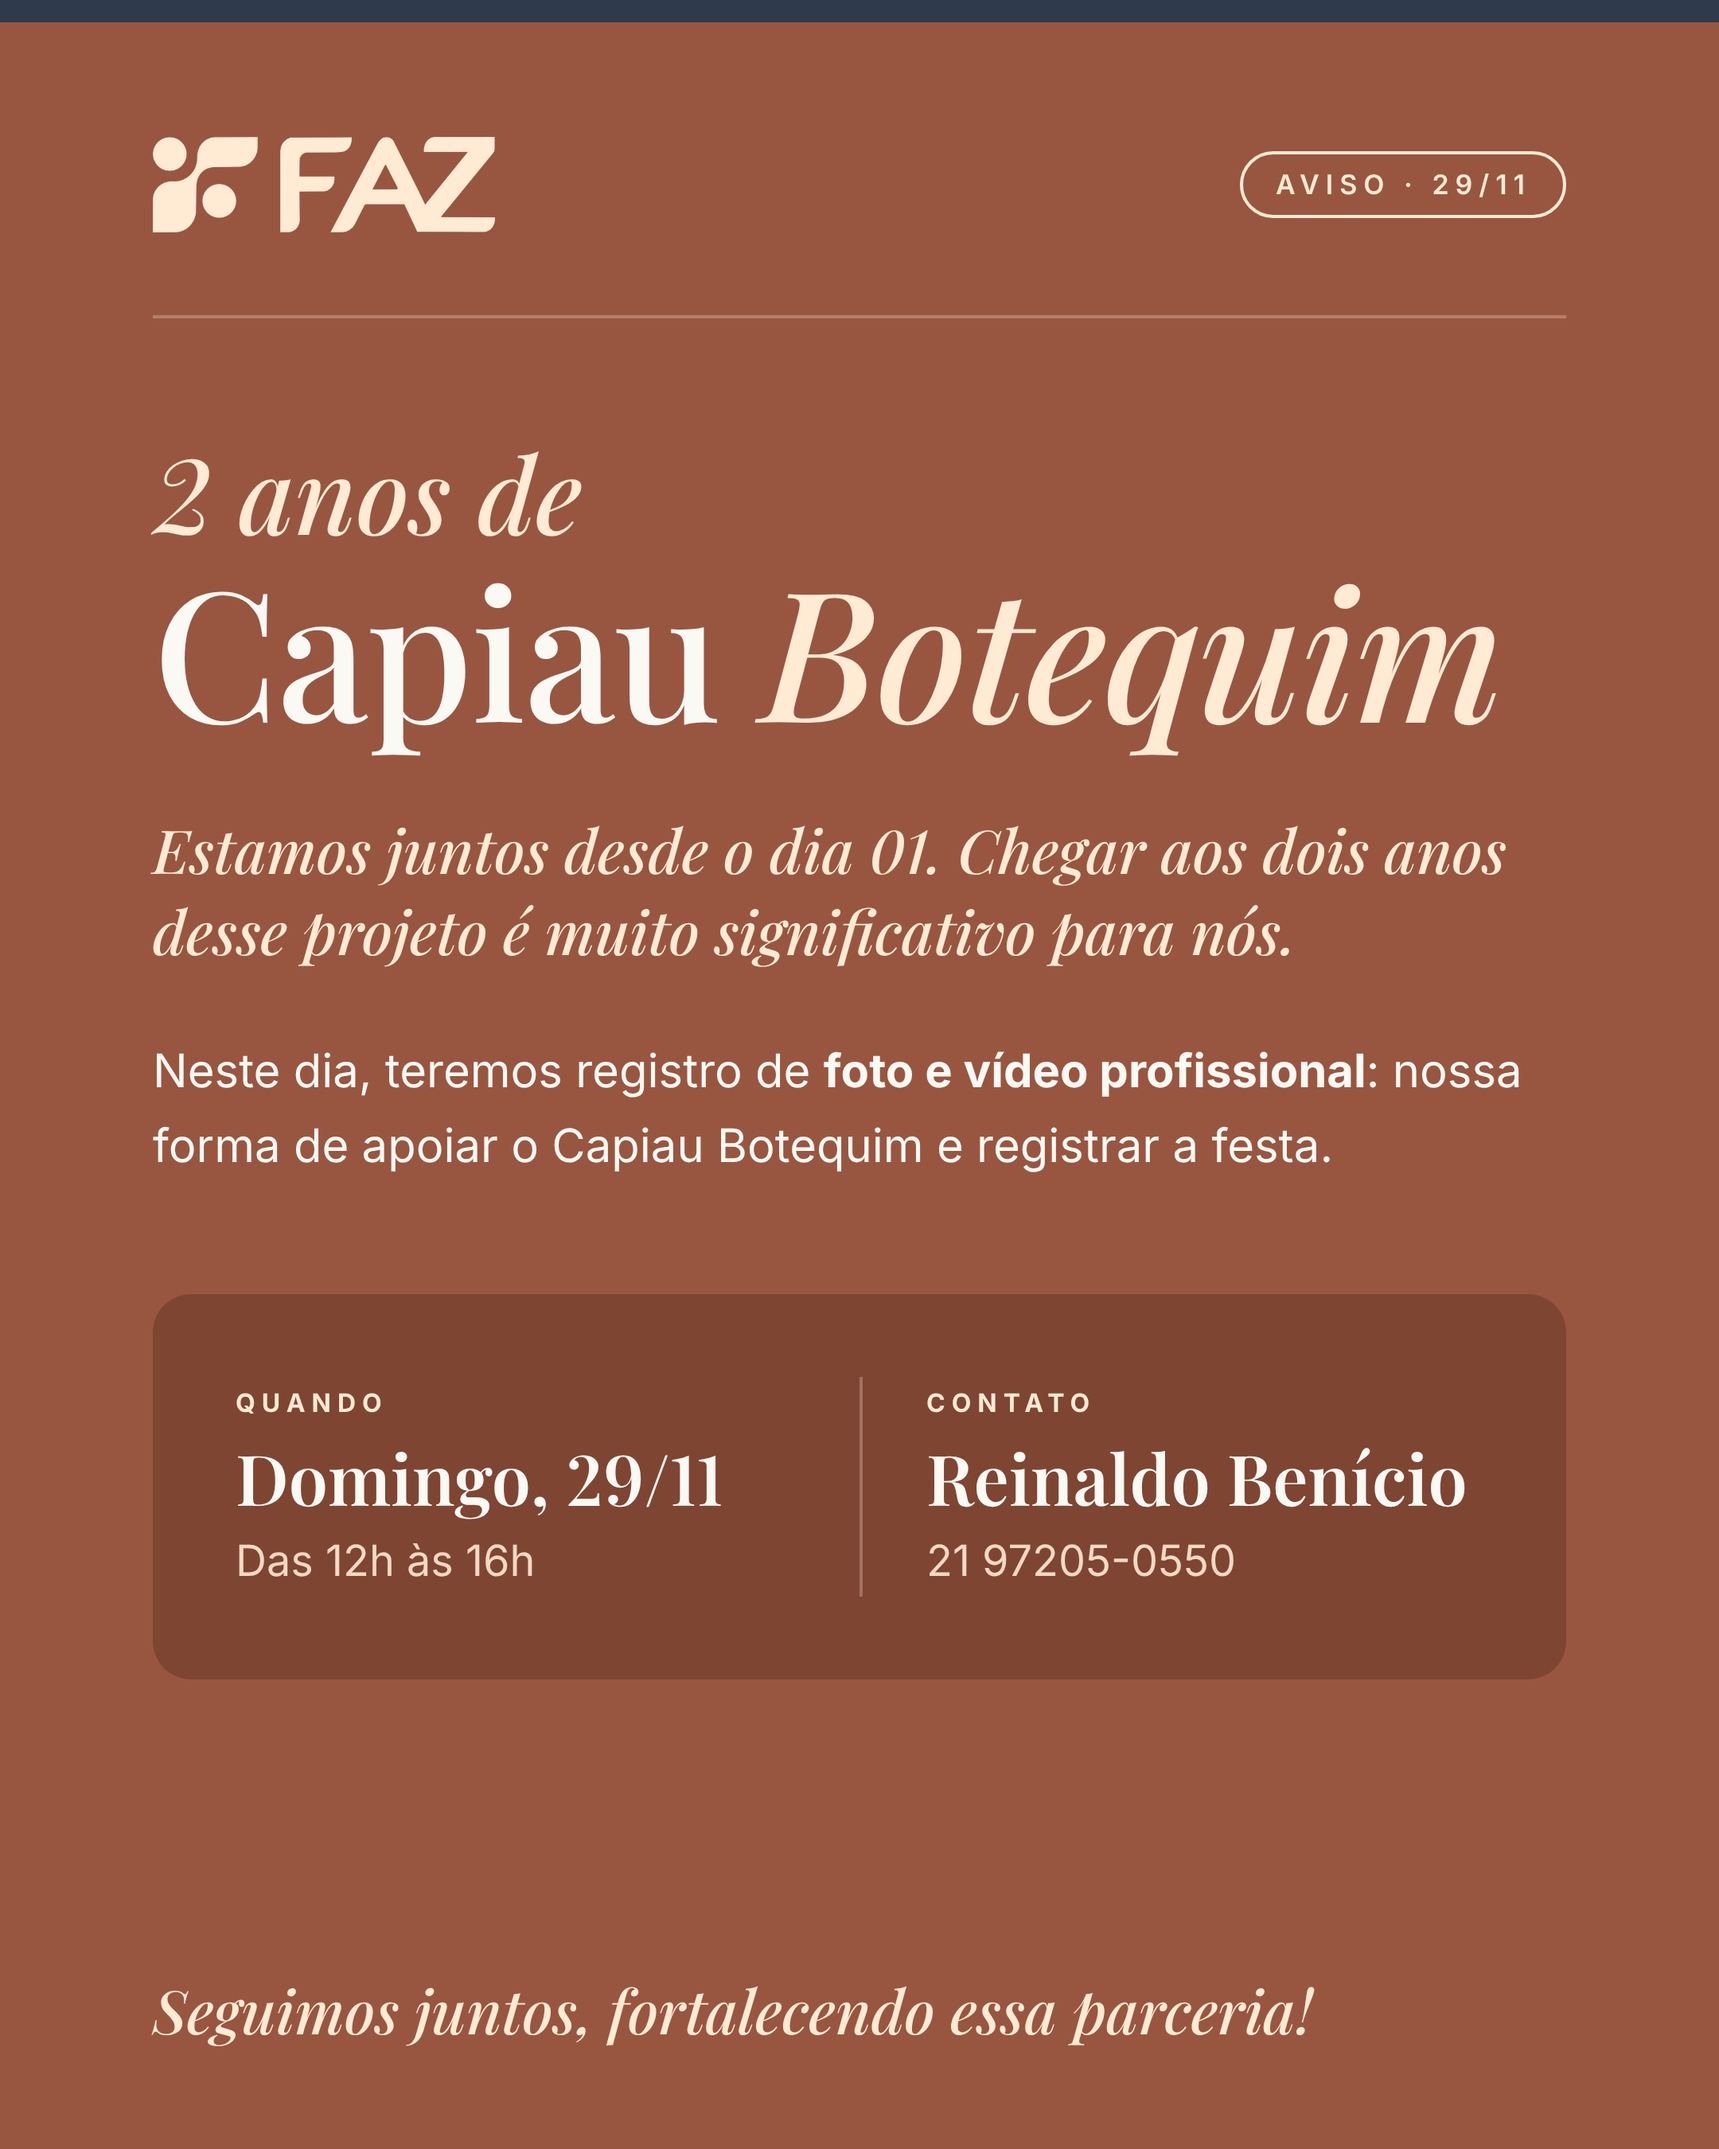
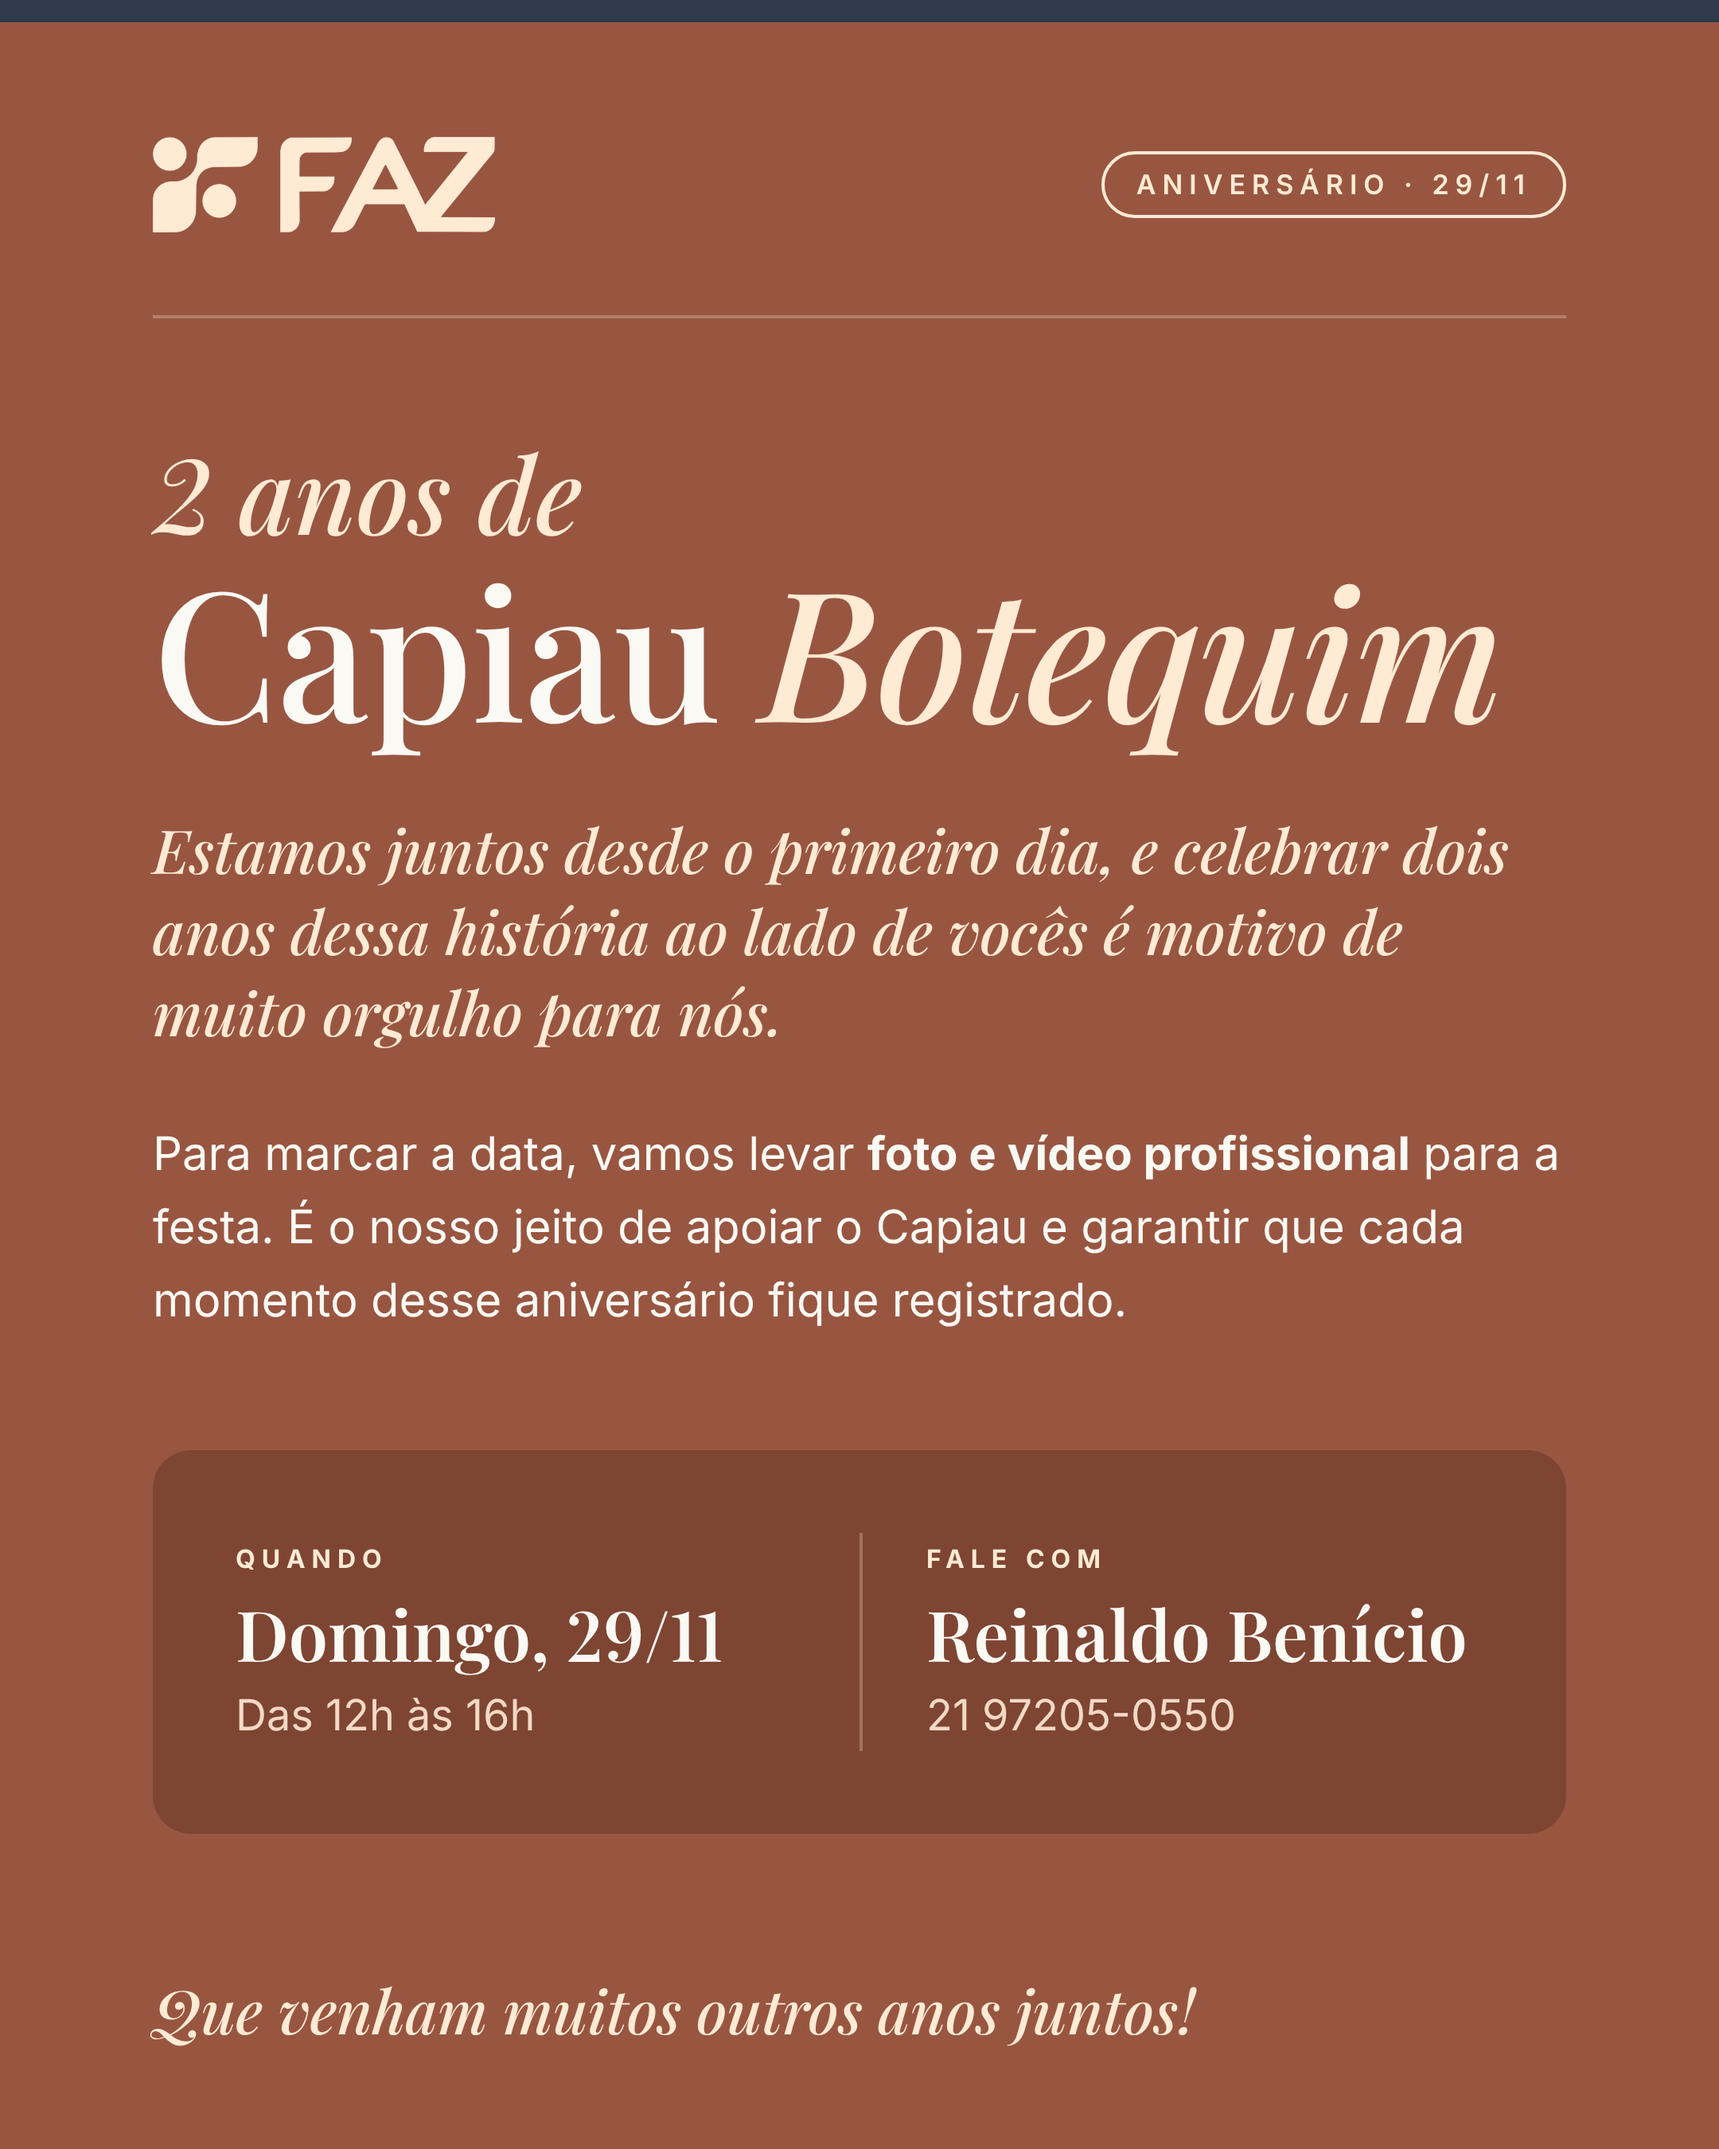
Aviso 2 anos do Capiau: reescreve o texto
Claude-Session: https://claude.ai/code/session_01NrFLg8teARWCnCwNSxCVA9

Changed region(s): [[0.062, 0.3733, 0.9306, 0.8711], [0.0931, 0.9333, 0.7444, 0.9644], [0.6514, 0.0622, 0.7755, 0.0933]]

diff --git a/avisos/aviso-capiau-2anos-29nov.html b/avisos/aviso-capiau-2anos-29nov.html
@@ -40,18 +40,18 @@ h1.big{font-size:114px;line-height:.98}
 </style></head><body>
 <div class="band"></div>
 <div class="wrap">
-  <div class="head"><div class="logo" role="img" aria-label="FAZ"></div><div class="tag">Aviso · 29/11</div></div>
+  <div class="head"><div class="logo" role="img" aria-label="FAZ"></div><div class="tag">Aniversário · 29/11</div></div>
   <div class="rule"></div>
   <div class="kicker">2 anos de</div>
   <h1 class="big">Capiau <em>Botequim</em></h1>
-  <div class="lead">Estamos juntos desde o dia 01. Chegar aos dois anos desse projeto é muito significativo para nós.</div>
-  <p>Neste dia, teremos registro de <b>foto e vídeo profissional</b>: nossa forma de apoiar o Capiau Botequim e registrar a festa.</p>
+  <div class="lead">Estamos juntos desde o primeiro dia, e celebrar dois anos dessa história ao lado de vocês é motivo de muito orgulho para nós.</div>
+  <p>Para marcar a data, vamos levar <b>foto e vídeo profissional</b> para a festa. É o nosso jeito de apoiar o Capiau e garantir que cada momento desse aniversário fique registrado.</p>
   <div class="prog">
     <div class="info">
       <div><div class="k">Quando</div><div class="v">Domingo, 29/11</div><div class="s">Das 12h às 16h</div></div>
-      <div><div class="k">Contato</div><div class="v">Reinaldo Benício</div><div class="s">21 97205-0550</div></div>
+      <div><div class="k">Fale com</div><div class="v">Reinaldo Benício</div><div class="s">21 97205-0550</div></div>
     </div>
   </div>
-  <div class="foot"><p>Seguimos juntos, fortalecendo essa parceria!</p></div>
+  <div class="foot"><p>Que venham muitos outros anos juntos!</p></div>
 </div>
 </body></html>
